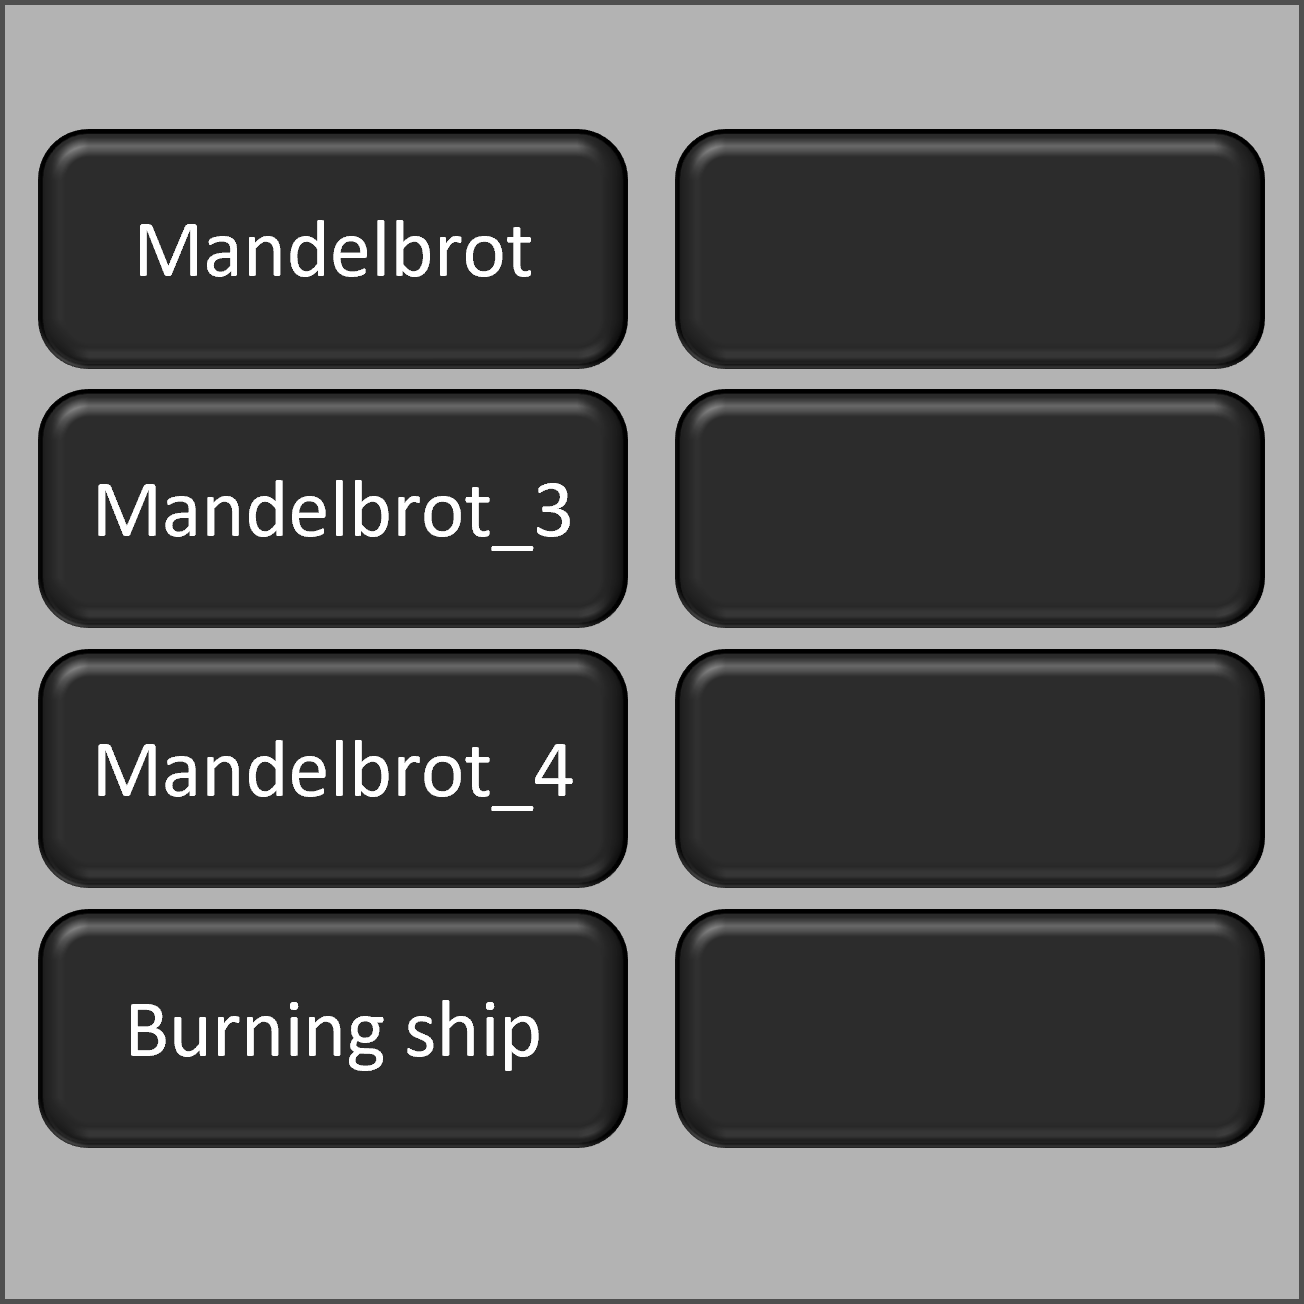
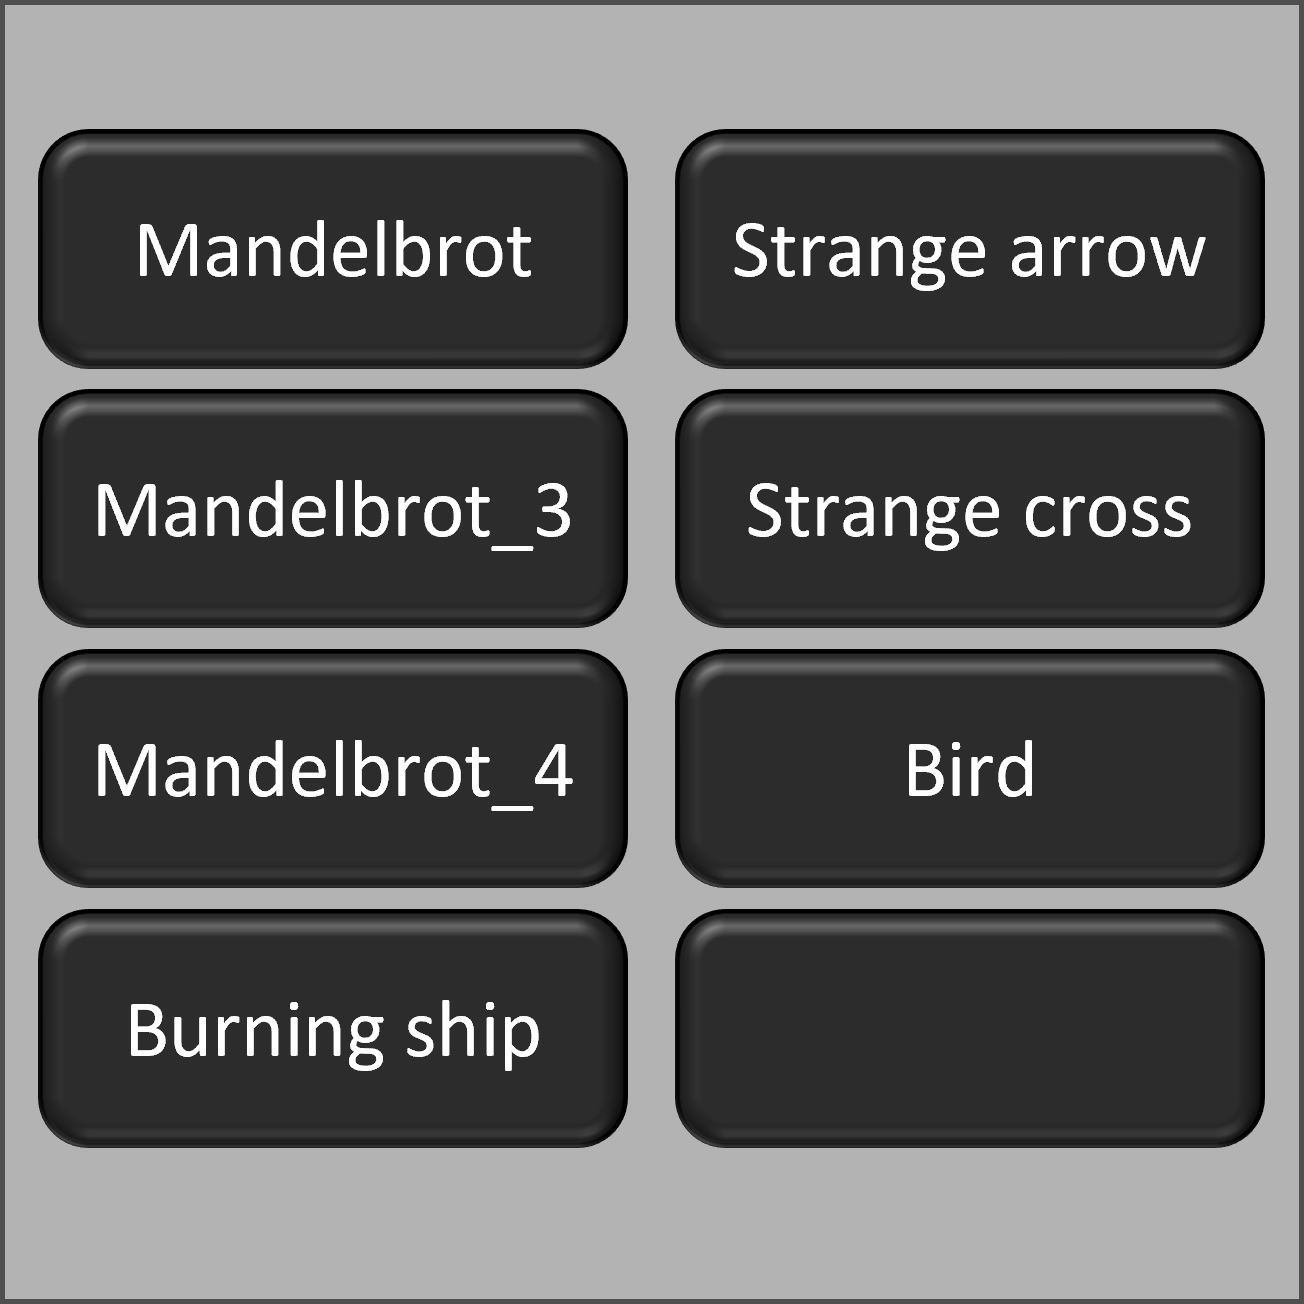
Added multi threading and more

Changed region(s): [[0.5521, 0.3681, 0.9202, 0.4294], [0.5521, 0.1534, 0.9202, 0.2147], [0.6748, 0.5521, 0.7975, 0.6135]]

diff --git a/Fractals/GenerateImage.h b/Fractals/GenerateImage.h
@@ -1,0 +1,191 @@
+#pragma once
+#include <SDL.h>
+#include <iostream>
+//#include <thread>
+
+class GenerateImage
+{
+public:
+	GenerateImage(SDL_Renderer* _renderer, int  _windowWidth, int _windowHeight, double _xBound[2], double _yBound[2], int _fracfunct, uint8_t& _color) {
+		fracfunct = _fracfunct;
+		windowWidth = _windowWidth;
+		windowHeight = _windowHeight;
+		yBound = _yBound;
+		xBound = _xBound;
+		renderer = _renderer;
+		color = _color;
+	}
+
+	void operator()(int imageHeight, int maxN, int xBegin, int xEnd,std::vector<int>* stabilityValue, double initialR = 0, double initialI = 0, bool juliaSet = false) {
+		//loop over eacht pixel
+		for (int y = 0; y < imageHeight; y++) { //each column
+			for (int x = xBegin; x < xEnd; x++) { //each row
+				//Find the coordinates on the complex plane for that pixel
+				double cReal = mapToReal(x);
+				double cIm = mapToImaginary(y);
+				//find how stable the point is
+				int n = 0;
+				if (juliaSet) {
+					n = checkStability(initialR, initialI, maxN, cReal, cIm);
+				}
+				else
+					n = checkStability(cReal, cIm, maxN, initialR, initialI);
+				stabilityValue->at((size_t)y+(x-xBegin)*(size_t)imageHeight) = n;
+				//setColor(n, maxN); //set renderer draw color
+				//SDL_RenderDrawPoint(renderer, x, y);
+			}
+		}
+	}
+
+private:
+	//check if points are stable with recursion
+	int checkStability(double cReal, double cIm, int N, double zReal = 0, double zIm = 0) {
+		int i = 0;
+		while (i < N && zReal * zReal + zIm * zIm < 4.0) {
+			double tmp;
+			switch (fracfunct) {
+			case 1:
+				//Z^2 + C
+				tmp = zReal * zReal - zIm * zIm + cReal;
+				zIm = 2.0 * zReal * zIm + cIm;
+				break;
+			case 2:
+				//Z ^ 3 + C
+				tmp = zReal * (zReal * zReal - 3 * zIm * zIm) + cReal;
+				zIm = zIm * (3 * zReal * zReal - zIm * zIm) + cIm;
+				break;
+			case 3:
+				//Z^4 + C
+				tmp = zReal * zReal * zReal * zReal - 6 * zReal * zReal * zIm * zIm + zIm * zIm * zIm * zIm + cReal;
+				zIm = 4 * zReal * zIm * (zReal * zReal - zIm * zIm) + cIm;
+				break;
+			case 4:
+				//burning ship
+				//Z^2 + C
+				tmp = zReal * zReal - zIm * zIm + cReal;
+				zIm = abs(2.0 * zReal * zIm) + cIm;
+				break;
+			case 5:
+				//strange arrow
+				tmp = zReal * zReal * zReal * zReal - 6 * zReal * zReal * zIm * zIm + zIm * zIm * zIm * zIm + cReal;
+				zIm = 2.0 * zReal * zIm + cIm;
+				break;
+			case 6:
+				//strange cross
+				tmp = zReal * zReal - zIm * zIm + cReal;
+				zIm = 4 * zReal * zIm * (zReal * zReal - zIm * zIm) + cIm;
+				break;
+			case 7:
+				//bird
+				//e^Zi * Z^2 + C
+				tmp = cos(zReal) * zReal * zReal - zIm * zIm + cReal;
+				zIm = sin(zIm) * 2.0 * zReal * zIm + cIm;
+				break;
+			default:
+				//std::cout << "No fractal function selected, so just drawing default Mandelbrot\n";
+				//Z^2 + C
+				tmp = zReal * zReal - zIm * zIm + cReal;
+				zIm = 2.0 * zReal * zIm + cIm;
+				break;
+			}
+			zReal = tmp;
+			i++;
+		}
+		return i;
+	}
+
+	//functions for mapping from the pixels to complex values and the other way
+	double mapToReal(int x) {
+		double range = xBound[1] - xBound[0];
+		return x * (range / windowWidth) + xBound[0];
+	}
+
+	double mapToImaginary(int y) {
+		double range = yBound[1] - yBound[0];
+		return y * (range / windowHeight) + yBound[0];
+	}
+
+	//maping  hsv To RGB
+	void mapHsvToRGB(int* RGB, int H, double V, double S) {
+		//make sure H is between 0 and 360
+		while (H > 360)
+			H -= 360;
+		//make V and S between 0 and 1
+		if (V > 1)
+			V = 1;
+		if (S > 1)
+			S = 1;
+		//calculate some variables
+		double C = V * S;
+		double X = C * (1 - abs((H / 60) % 2 - (int8_t)1));
+		double m = V - C;
+		// Calculate the values for R,G and B
+		RGB[0] = (C * ((H >= 0 && H < 60) || (H >= 300 && H < 360)) + X * ((H >= 60 && H < 120) || (H >= 240 && H < 300)) + m) * 255; // red
+		RGB[1] = (C * ((H >= 60 && H < 120) || (H >= 120 && H < 180)) + X * ((H >= 0 && H < 60) || (H >= 180 && H < 240)) + m) * 255; // green
+		RGB[2] = (C * ((H >= 180 && H < 240) || (H >= 240 && H < 300)) + X * ((H >= 120 && H < 180) || (H >= 300 && H < 360)) + m) * 255; // blue
+		return;
+	}
+
+	//map to a blue color list using a second order polynomial
+	void mapToBlue(int* RGB, int n, int max) {
+		double n2 = (double)n / max * 200; //normilize
+		double Cr[] = { -0.003143, 0.612571, 0.085714 };
+		double Cg[] = { 0.000771, 0.683714, 0.857143 };
+		double Cb[] = { 0.000047, -0.015057, 2.164762, 0.714286 };
+		RGB[0] = Cr[0] * n2 * n2 + Cr[1] * n2 + Cr[2];
+		RGB[1] = Cg[0] * n2 * n2 + Cg[1] * n2 + Cg[2];
+		RGB[2] = n2 * (n2 * (Cb[0] * n2 + Cb[1]) + Cb[2]) + Cb[3];
+	}
+
+	void setColor(int n, int maxN) {
+		//mab the resulting number to RGB
+		int RGB[3] = { 0 };
+		switch (color)
+		{
+		case 0://black and white
+			RGB[0] = RGB[1] = RGB[2] = n;
+			break;
+		case 1: //red&orange
+			RGB[0] = n * 2; //red
+			RGB[1] = n * 0.6; //green
+			RGB[2] = 0; //blue
+			break;
+		case 2: //green
+			RGB[0] = 0; //red
+			RGB[1] = n * 2; //green
+			RGB[2] = n * 0.6; //blue		  
+			break;
+		case 3: //blue
+			mapToBlue(RGB, n, maxN);
+			break;
+		case 4: //red&purple
+			RGB[0] = n * 2; //red
+			RGB[1] = 0; //green
+			RGB[2] = n * 0.6; //blue
+			break;
+		case 5: //multiple colors
+			mapHsvToRGB(RGB, n, (double)n * 2 / maxN, (double)n * 5 / maxN);
+			break;
+		case 6: //multible colors, extremer
+			mapHsvToRGB(RGB, cos(n * n) * 200, n, n);
+			break;
+
+		default:
+			break;
+		}
+		if (n == maxN) { //in stable than make it black
+			RGB[0] = RGB[1] = RGB[2] = 0;
+		}
+		SDL_SetRenderDrawColor(renderer, RGB[0], RGB[1], RGB[2], 1);
+	}
+
+private:
+	int fracfunct = 1; //the selected function for drawing fractals
+	int windowWidth;
+	int windowHeight;
+	double* xBound;
+	double* yBound;
+	SDL_Renderer* renderer;
+	uint8_t color;
+};
+

diff --git a/Fractals/MainGame.cpp b/Fractals/MainGame.cpp
@@ -59,6 +59,22 @@ int MainGame::checkStability(double cReal, double cIm, int N, double zReal = 0, 
 			tmp = zReal * zReal - zIm * zIm + cReal;
 			zIm = abs(2.0 * zReal * zIm) + cIm;
 			break;
+		case 5:
+			//strange arrow
+			tmp = zReal * zReal * zReal * zReal - 6 * zReal * zReal * zIm * zIm + zIm * zIm * zIm * zIm + cReal;	
+			zIm = 2.0 * zReal * zIm + cIm;
+			break;
+		case 6: 
+			//strange cross
+			tmp = zReal * zReal - zIm * zIm + cReal;
+			zIm = 4 * zReal * zIm * (zReal * zReal - zIm * zIm) + cIm;
+			break;
+		case 7:
+			//bird
+			//e^Zi * Z^2 + C
+			tmp = cos(zReal) * zReal * zReal - zIm * zIm + cReal;
+			zIm = sin(zIm) * 2.0 * zReal * zIm + cIm;
+			break;
 		default:
 			std::cout << "No fractal function selected, so just drawing default Mandelbrot\n";
 			//Z^2 + C
@@ -277,6 +293,15 @@ void MainGame::processInput() {
 				update();
 				break;
 			}
+			else if (keyPressed == 't' && event.key.keysym.sym >= 48 && event.key.keysym.sym < 58) { //change the color if c+num is pressed
+				amountOfThreads = (int)event.key.keysym.sym - 48;
+				if (amountOfThreads % 2 != 0 && amountOfThreads != 1) //check if not even
+					amountOfThreads = amountOfThreads - 1;
+				if (amountOfThreads > 8 || amountOfThreads < 1) //limit the threads to 8
+					amountOfThreads = 1;
+				update();
+				break;
+			}
 			switch(event.key.keysym.sym) { 
 			case  13: //enter
 				std::cout << "Enter real value\n";
@@ -333,10 +358,12 @@ void MainGame::processInput() {
 			case 'j': //toggle julia set
 				juliaSet = !juliaSet;
 				buddhaSet = false;
+				update();
 				break;
 			case 'b': //toggle buddha set
 				buddhaSet = !buddhaSet;
 				juliaSet = false;
+				update();
 				break;
 			case 'r': //resize window
 				std::cout << "\n-----------------------------------------\n"<<"\tResizeing window\n";
@@ -351,7 +378,12 @@ void MainGame::processInput() {
 				//destroy texture and create a new one
 				SDL_DestroyTexture(fractalTex);
 				initTextures();
+				update();
 				break;
+			case 'n':
+				std::cout << "Enter a new value for the maximum number of itterations,\n the higher the better but it will be slower\n (previous value was:" << maxN << ")\n";
+				std::cin >> maxN;
+				update();
 			default: //Save while key is pressed
 				keyPressed = event.key.keysym.sym;
 				break;
@@ -465,11 +497,42 @@ void MainGame::update() {
 	//parameters
 	int imageWidth = windowWidth;
 	int imageHeight = windowHeight;
-	int maxN = 500;
 	if (buddhaSet) {
+		int maxN = 50;
 		CreateBuddha(maxN);
 	}
 	else {
+		// Divide up the pixels over the threads
+		std::vector<std::thread> threads;
+		// Make a vector for the stability values and resize it, (NOTE it is unfolded)
+		std::vector<std::vector<int>*> stabilityVal; 
+		stabilityVal.resize(amountOfThreads);
+		for (int i = 0; i < stabilityVal.size(); i++)
+			stabilityVal[i] = new std::vector<int>((int)((double)windowHeight*((double)imageWidth / amountOfThreads)));
+
+		for (int i = 0; i < amountOfThreads; i++) {
+			int xBegin =(int)( i * ((double)imageWidth / amountOfThreads)); 
+			int xEnd = (int)((i + 1) * ((double)imageWidth / amountOfThreads));
+			// Generate the object that will be put in the thread
+			GenerateImage functorGen = GenerateImage(renderer, windowWidth, windowHeight, xBound, yBound, fracfunct, color);
+			// Start the thread
+			threads.push_back(std::thread(functorGen, imageHeight, maxN, xBegin, xEnd, stabilityVal[i], initialR, initialI, juliaSet));
+		}
+		// Join the strings
+		for (int i = 0; i < threads.size(); i++)
+			threads[i].join();
+		
+		// Render everything
+		for (int i = 0; i < stabilityVal.size(); i++){		
+			int beginX = (int)(i * ((double)imageWidth / amountOfThreads));
+			for (int j = 0; j < stabilityVal[i]->size(); j++) {
+				setColor(stabilityVal[i]->at(j), maxN); //set renderer draw color
+				SDL_RenderDrawPoint(renderer, (int)j / windowHeight + beginX, j % windowHeight);
+			}
+		}
+			
+
+		/*
 		//loop over eacht pixel
 		for (int y = 0; y < imageHeight; y++) { //each column
 			for (int x = 0; x < imageWidth; x++) { //each row
@@ -487,6 +550,7 @@ void MainGame::update() {
 				SDL_RenderDrawPoint(renderer, x, y);
 			}
 		}
+		*/
 	}
 	std::cout << "Time elapsed = " << clock() - t0 << std::endl;
 	//reset target

diff --git a/Fractals/MainGame.h b/Fractals/MainGame.h
@@ -8,7 +8,10 @@
 #include <iostream>
 #include <string>
 #include <vector>
+#include <array>
 #include <ctime>
+#include <thread>
+#include "GenerateImage.h"
 
 class MainGame
 {
@@ -49,6 +52,7 @@ private:
 	void setColor(int n, int max); //set the color for the pixel based on the stability
 	void processEscMenuInput(SDL_Event&); //process input while in esc menu
 	void processFunMenuInput(SDL_Event&); //process input while in func menu
+
 	//private variables
 	bool isRunning;
 	SDL_Window* window;
@@ -70,4 +74,6 @@ private:
 	bool buddhaSet = false; //switch to a sort buddha thing
 	int fracfunct = 1; //the selected function for drawing fractals
 	State state = State::fractal;
+	uint8_t amountOfThreads = 2;
+	unsigned int maxN = 500;
 };
